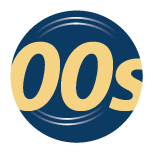
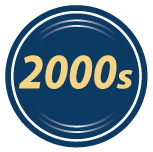
timeline on homepage made responsive and new header

diff --git a/assets/css/4-pages/home-page/_timeline.scss b/assets/css/4-pages/home-page/_timeline.scss
@@ -3,11 +3,31 @@
   background-image: url("/assets/img/img344.jpg");
   background-position: center;
   background-size: cover;
-  height: 600px;
+  height: 610px;
+}
+
+.home-timeline__inner {
+  -webkit-flex-direction: column;
+      -ms-flex-direction: column;
+      flex-direction: column;
+  -webkit-align-items: center;
+    -ms-flex-align: center;
+    align-items: center;
 }
 
 .home-timeline h2 {
   color: $white;
+}
+
+.home-timeline__home-lead {
+  background-image: url('/assets/img/timeline-headline.svg');
+  background-position: center;
+  background-size: cover;
+  background-color: $ochre;
+  width: 100%;
+  height: 105px;
+  display: block;
+  text-indent: -9999px;
 }
 
 .home-timeline a {
@@ -21,6 +41,24 @@
       width: 153px;
       height: 153px;
       text-indent: -9999px;
+      margin-left: 10px;
+      margin-right: 10px;
+}
+
+.home-timeline__decades {
+  -webkit-flex-direction: row;
+      -ms-flex-direction: row;
+      flex-direction: row;
+      -webkit-flex-wrap: wrap;
+      -ms-flex-wrap: wrap;
+      flex-wrap: wrap;
+      -webkit-justify-content: center;
+      -ms-flex-pack: center;
+      justify-content: center;
+      -webkit-align-content: center;
+      -ms-flex-line-pack: center;
+      align-content: center;
+  width: 600px;
 }
 
 .home-timeline__cta--60s {
@@ -40,13 +78,31 @@
 }
 
 @media(max-width:768px) {
+
+  .home-timeline {
+    background-position: -384px -276px;
+    height: 679px;
+  }
+
+  .home-timeline__home-lead {
+    height: 44px;
+  }
+
+  .home-timeline__decades {
+    width:auto;
+  }
   .home-timeline a {
-        display: block;
-        width: 100%;
-        height: 77px;
-        text-indent: 0;
-        text-align: center;
-        background-color: $white;
+    display: block;
+    width: 100%;
+    height: 77px;
+    text-indent: 0;
+    text-align: center;
+    background-color: $primary-blue;
+    color: $ochre;
+    font-size: 36px;
+    font-weight: 400;
+    margin-left: 0;
+    margin-right: 0;
   }
 
   .home-timeline__cta--60s {

diff --git a/index.html b/index.html
@@ -32,11 +32,9 @@ title: Home
       </div>
     </div>
     <div class="flex flex--center">
-    <div class="col-1">
-        <h2 class="card--headline">50 Free courses</h2>
+        <h2 class="card--headline">Fifty Free courses</h2>
         <a href="/courses/" class="button home-cta">See our full list of 50</a>
     </div>
-  </div>
   </section>
 
   <section class="home-intro">
@@ -46,16 +44,14 @@ title: Home
   </section>
 
   <section id="home-timeline" class="home-timeline">
-    <div class="flex flex--center">
-      <div>
-        <h2 class="home-lead">50 years<br />1966 - 2016</h2>
-        <div class="flex flex--center">
+    <div class="home-timeline__inner flex flex--center">
+        <h2 class="home-timeline__home-lead home-lead">50 years 1966 - 2016</h2>
+        <div class="home-timeline__decades flex">
         <a class="home-timeline__cta--60s" href="/1960s/">1960s</a>
         <a class="home-timeline__cta--70s" href="/1970s/">1970s</a>
-        <a class="home-timeline__cta--80s" href="/1980s/">1980s</a></div><div class="flex flex--center">
+        <a class="home-timeline__cta--80s" href="/1980s/">1980s</a>
         <a class="home-timeline__cta--90s" href="/1990s/">1990s</a>
         <a class="home-timeline__cta--00s" href="/2000s/">2000s</a>
-      </div>
       </div>
     </div>
   </section>

diff --git a/assets/css/4-pages/home-page/_course-gallery.scss b/assets/css/4-pages/home-page/_course-gallery.scss
@@ -61,6 +61,7 @@
 .card--headline {
   color: $text-secondary-colour;
   text-align: center;
+  text-transform: uppercase;
 }
 
 @media(max-width:767px) {

diff --git a/assets/css/4-pages/home-page/_stats.scss b/assets/css/4-pages/home-page/_stats.scss
@@ -29,3 +29,9 @@
   text-indent: -9999px;
   width: 300px;
  }
+
+@media(max-width:767px) {
+  .power-of-community {
+    display: none;
+  }
+}
